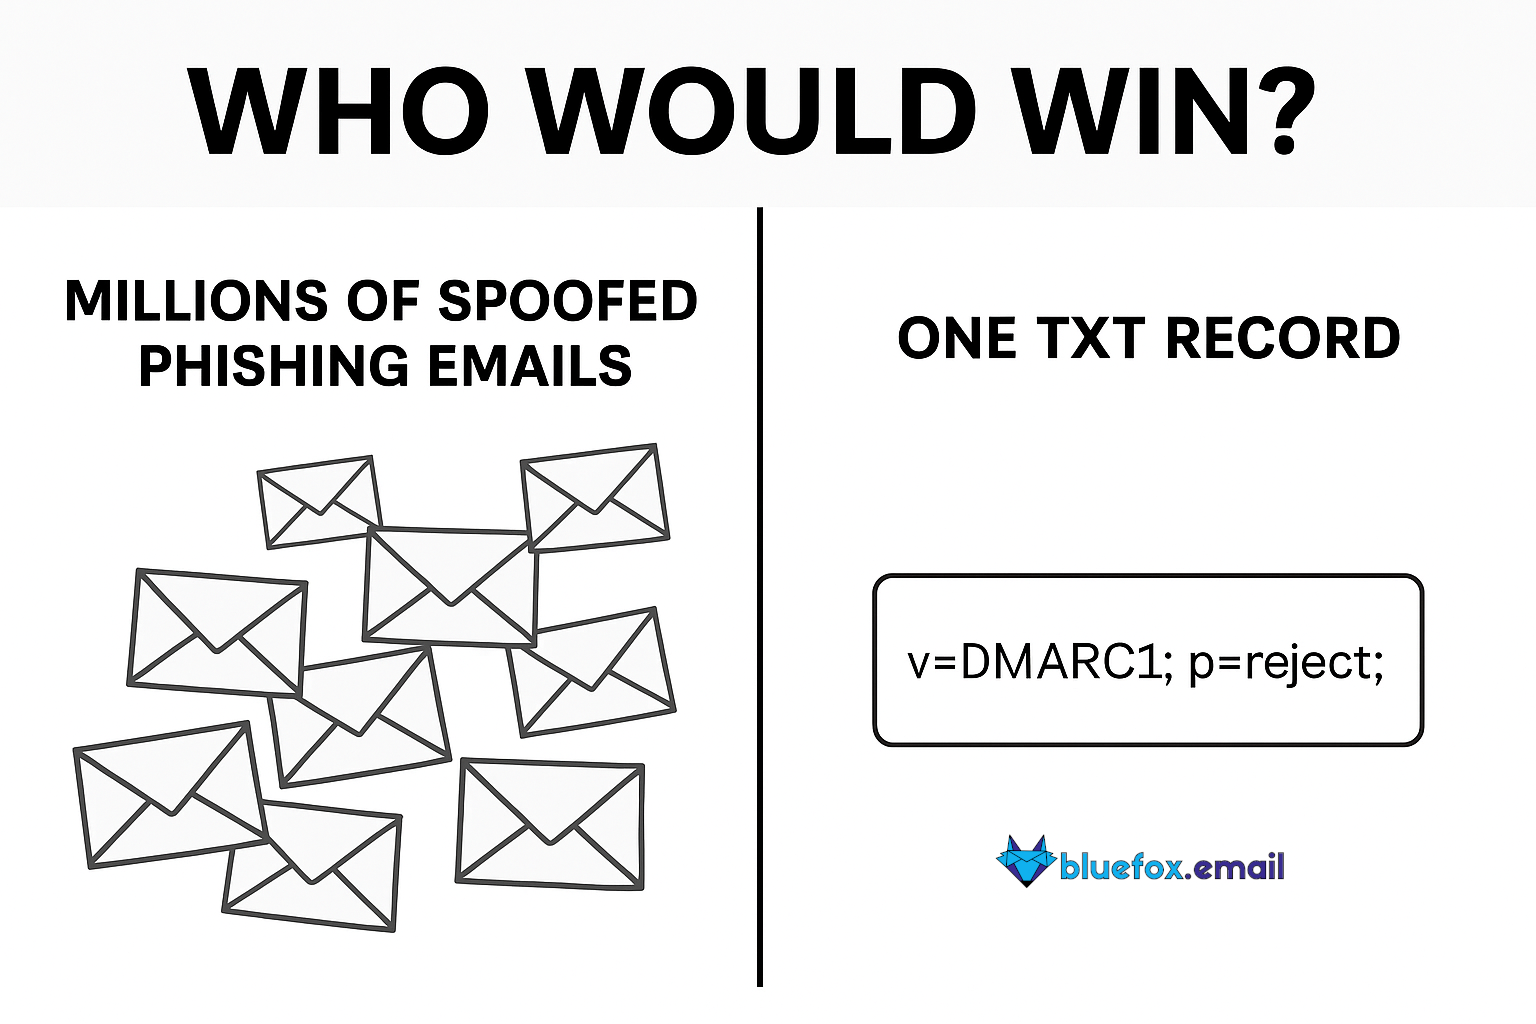
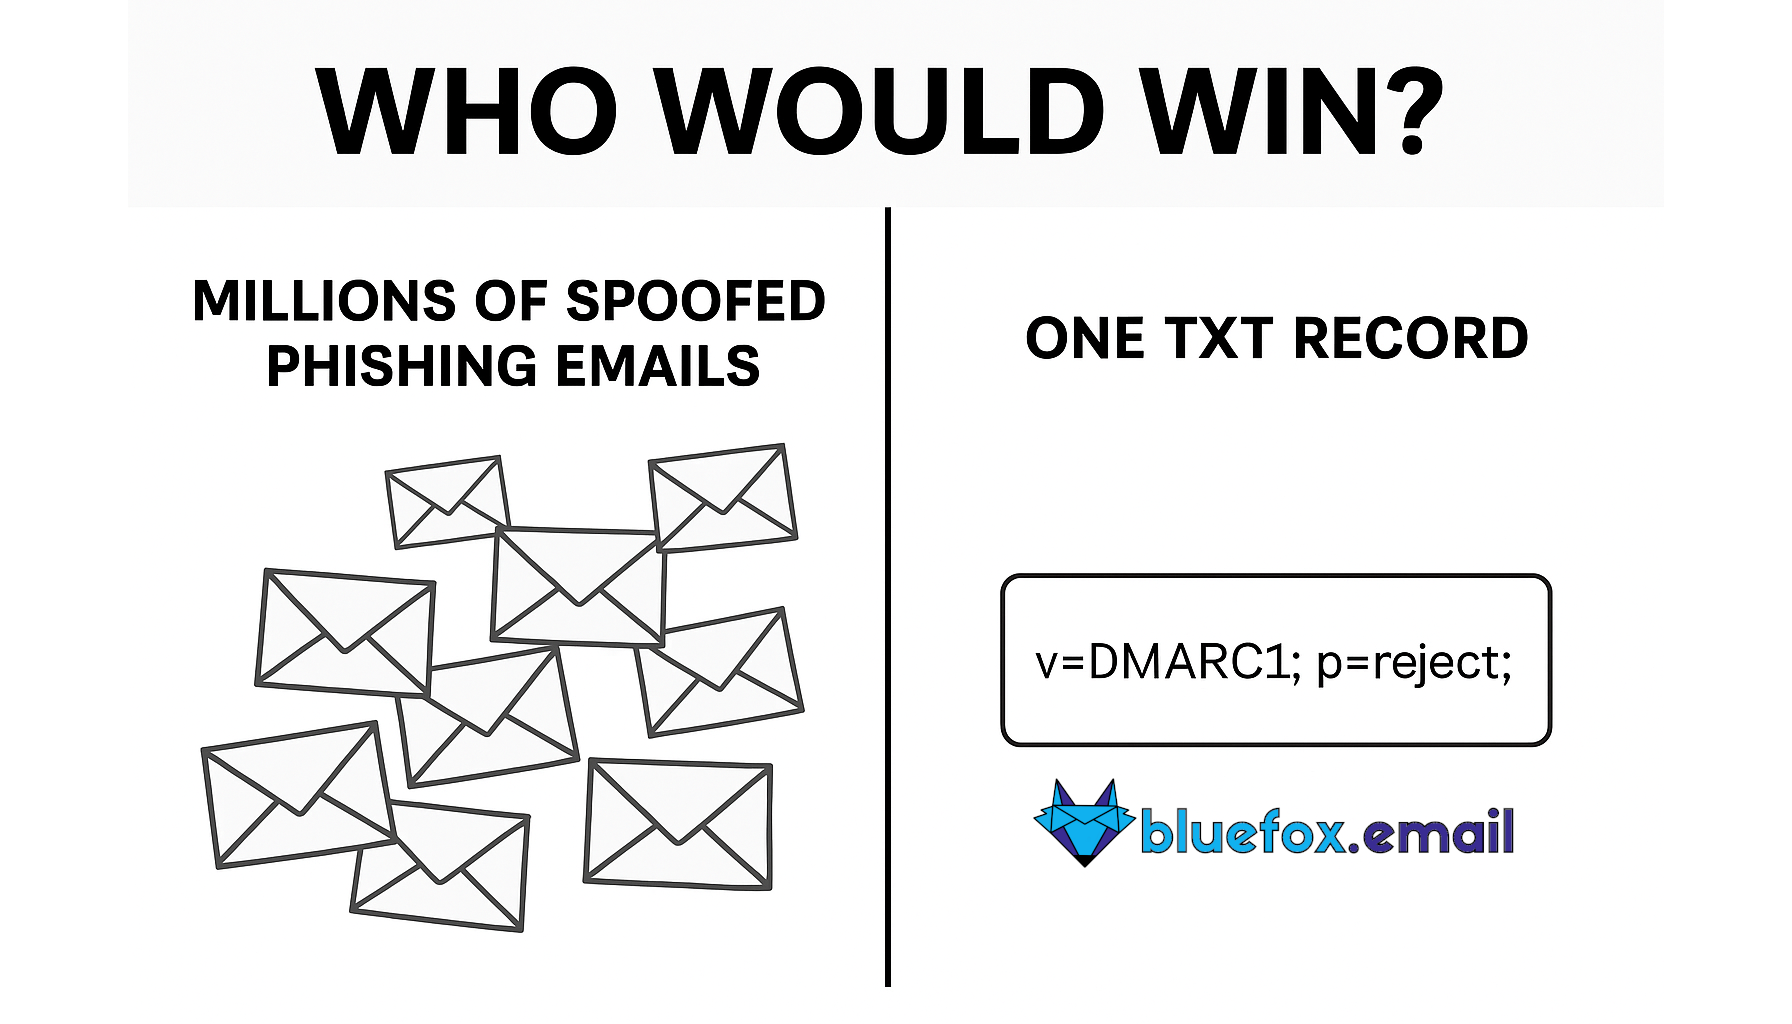
thumbnail + share img

diff --git a/posts/how-spf-dkim-and-dmarc-actually-work-with-real-examples.md b/posts/how-spf-dkim-and-dmarc-actually-work-with-real-examples.md
@@ -1,7 +1,7 @@
 ---
 title: How SPF, DKIM, and DMARC Actually Work (With Real Examples)
 description: Learn how SPF, DKIM, and DMARC work together to authenticate email and prevent spoofing, using real examples from BlueFox Email.
-thumbnail: /assets/articles/how-spf-dkim-and-dmarc-actually-work-with-real-examples-share.png
+thumbnail: /assets/articles/how-spf-dkim-and-dmarc-actually-work-with-real-examples-share.webp
 
 layout: post
 category: articles
